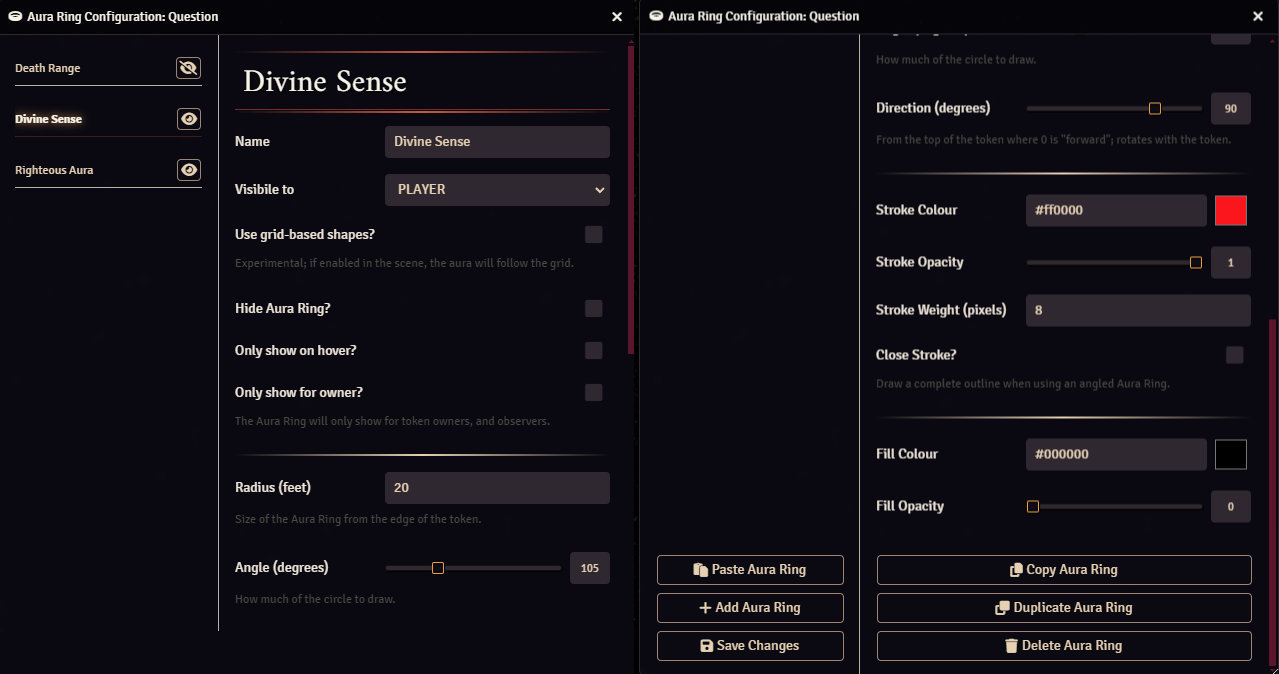
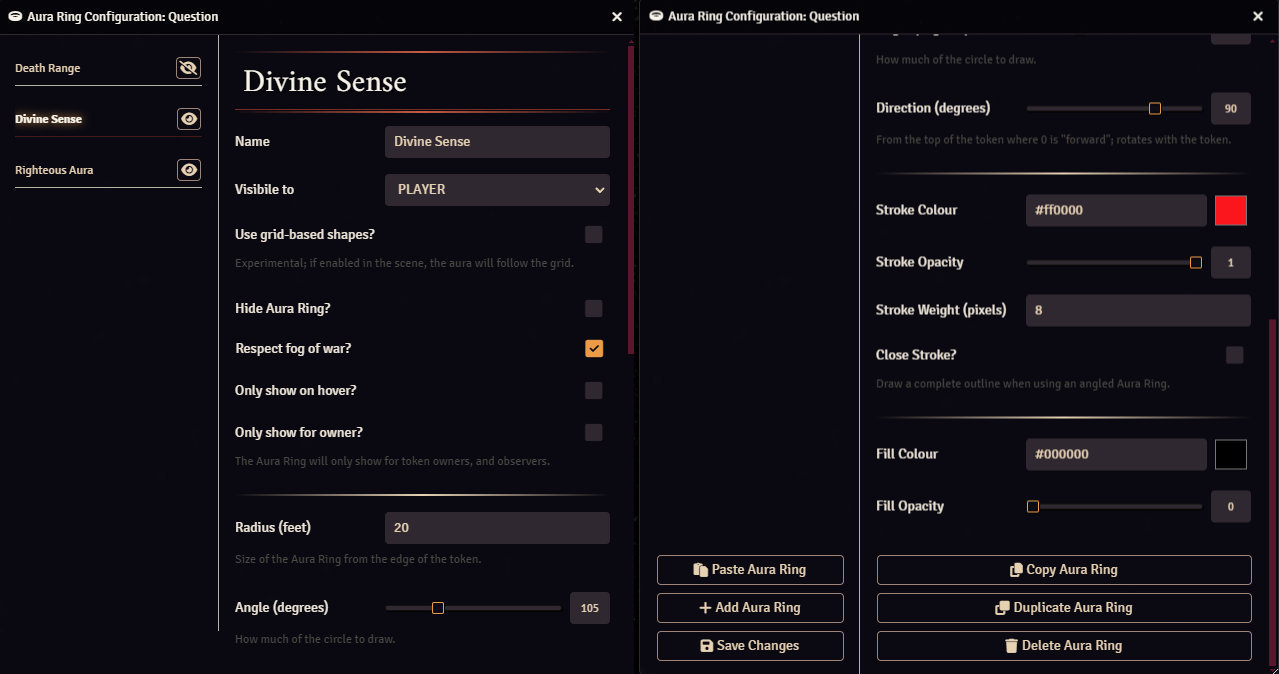
Added option to show / hide auras based on token visibility

diff --git a/AuraRingDataModel.js b/AuraRingDataModel.js
@@ -9,6 +9,7 @@ export class AuraRingDataModel extends foundry.abstract.DataModel
             'visibility',
             'use_grid_shapes',
             'hide',
+            'respect_fog',
             'hover_only',
             'owner_only',
         ],
@@ -44,6 +45,7 @@ export class AuraRingDataModel extends foundry.abstract.DataModel
             name: AuraRingDataModel.nameField(defaults.name),
             owner_only: AuraRingDataModel.ownerOnlyField(defaults.owner_only),
             radius: AuraRingDataModel.radiusField(defaults.radius),
+            respect_fog: AuraRingDataModel.respectFogField(defaults.respect_fog),
             stroke_close: AuraRingDataModel.strokeCloseField(defaults.stroke_close),
             stroke_colour: AuraRingDataModel.strokeColourField(defaults.stroke_colour),
             stroke_opacity: AuraRingDataModel.strokeOpacityField(defaults.stroke_opacity),
@@ -66,6 +68,7 @@ export class AuraRingDataModel extends foundry.abstract.DataModel
             name: 'Aura',
             owner_only: false,
             radius: 20,
+            respect_fog: true,
             stroke_close: false,
             stroke_colour: '#ff0000',
             stroke_opacity: 0.75,
@@ -316,6 +319,19 @@ export class AuraRingDataModel extends foundry.abstract.DataModel
             ),
             AuraRingField.numberFieldParams(
                 null,
+            ),
+        );
+    }
+
+    static respectFogField(initial)
+    {
+        return AuraRingField.booleanField(
+            AuraRingField.dataFieldOptions(
+                'Respect fog of war?',
+                initial,
+            ),
+            AuraRingField.dataFieldContext(
+                'respect_fog',
             ),
         );
     }

diff --git a/AuraRingCanvas.js b/AuraRingCanvas.js
@@ -47,14 +47,7 @@ export class AuraRingCanvas
             AuraRingCanvas.getCanvas(token)?.drawCanvas();
         }
     }
-    
-    static async handleSightRefresh()
-    {
-        for (const tokenDocument of game.scenes.current.tokens) {
-            AuraRingCanvas.getCanvas(tokenDocument.object)?.refreshSight();
-        }
-    }
-    
+
     static async handleUpdateToken(tokenDocument)
     {
         if (AuraRingCanvas.isClass(tokenDocument, TokenDocument) === true) {
@@ -111,12 +104,7 @@ export class AuraRingCanvas
             this.renderAuraRings();
         }
     }
-    
-    refreshSight()
-    {
-        this.pixiGraphics.alpha = this.token.isVisible === true ? 1 : 0;
-    }
-    
+
     // PIXI Auras Container
     static findPixiAurasContainer()
     {
@@ -278,6 +266,13 @@ export class AuraRingCanvas
         if (
             auraRing.owner_only === true
             && this.token.observer !== true
+        ) {
+            return false;
+        }
+
+        if (
+            auraRing.respect_fog === true
+            && this.token.isVisible === false
         ) {
             return false;
         }

diff --git a/AuraRingApi.js b/AuraRingApi.js
@@ -15,6 +15,7 @@ export class AuraRingApi
      * @property {number}   id                  The unique numeric identifier of the Aura Ring
      * @property {string}   name                The display name of the Aura Ring
      * @property {number}   radius              The radius of the Aura Ring, from 0
+     * @property {boolean}  respect_fog         Whether to hide the Aura Ring when the eminating token cannot be seen
      * @property {boolean}  stroke_close        Whether to stroke the complete outline of the Aura Ring
      * @property {string}   stroke_colour       The stroke colour in hex
      * @property {number}   stroke_opacity      The stroke opacity as a fraction between 0 and 1

diff --git a/aura-ring.js b/aura-ring.js
@@ -38,7 +38,7 @@ Hooks.on('initializeVisionSources', function () {
     Hooks.on('refreshToken', AuraRingCanvas.handleRefreshToken);
 
     // Fired on: deleted, moved, selected, updated
-    Hooks.on('sightRefresh', AuraRingCanvas.handleSightRefresh);
+    // Hooks.on('sightRefresh', AuraRingCanvas.handleSightRefresh);
 
     // Fired on: updated (for client)
     Hooks.on('updateToken', AuraRingCanvas.handleUpdateToken);

diff --git a/README.md b/README.md
@@ -14,7 +14,7 @@ Aura rings are calculated as an emanation, based on the [Pathfinder 2nd Edition 
 
 Creatures larger than 1 tile will have flattened sides to correctly represent their aura range.
 
-Visibility of aura rings are obscured by fog-of-war, and hidden entirely when the viewing player is unable to see the token from which the aura rings are being emitted.
+Visibility of aura rings can be obscured by fog-of-war, and hidden entirely when the viewing player is unable to see the token from which the aura rings are being emitted.
 
 Hidden tokens will only show their aura rings to the game master.
 
@@ -71,6 +71,8 @@ You can also quickly show and hide an Aura Ring by pressing the "Eye" button or 
 Enabling the "Only show on hover?" option will cause the Aura Ring to only show when the token is hovered.
 
 Enabling the "Only show to owner?" option will cause the Aura Ring to only show for the token owner and observer, which includes the Game Master.
+
+Disabling "Respect fog of war?" will cause the Aura Ring to be visible even when the player cannot see the eminating token.
 
 ### Angled aura rings
 
